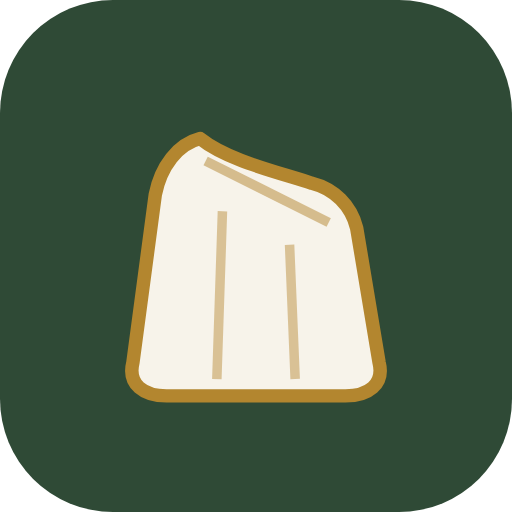
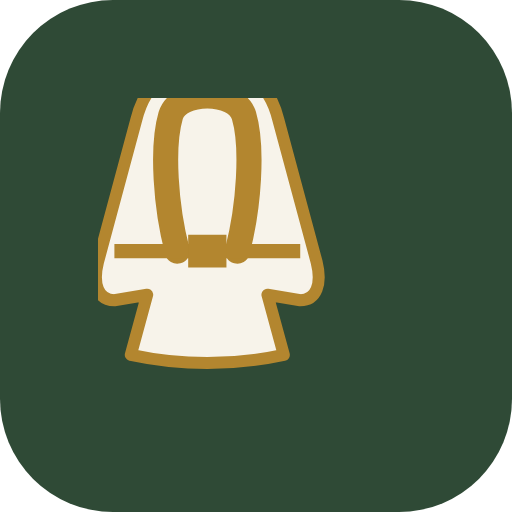
A bathrobe, and a genuinely narrower wordmark
The mark:
- Proportion was the real problem. At 46px a squat body reads as a shirt however good the
  collar is; a robe has to be clearly longer than it is wide (46x47 -> 36x46)
- Long sleeves. A neutral test (no leading question) called the sleeveless version a hospital
  gown and the sleeved one a bathrobe/dressing gown. The sleeves are the difference
- Collar is a horseshoe wrapping the neck, not a V band: two lines meeting in a point is a
  shirt lapel. Rejected 'crossing + hanging belt end' - best description, illegible at 30px
- viewBox fits the garment, so a tall robe no longer floats in a square frame

The wordmark:
- Cormorant 700 as the wordmark face - the display cut of the same Garamond lineage. It
  tolerates far more condensation than the text cut: EB Garamond goes cheap past ~0.76,
  Cormorant holds at 0.72. 48px/0.80 -> 56px/0.72, same width, 8px taller
- Inlined subset regenerated from Cormorant (1.2KB, still four glyphs, still no CDN)

Suite still 52/52.

Changed region(s): [[0.1875, 0.1875, 0.7812, 0.8125]]

diff --git a/index.html b/index.html
@@ -19,14 +19,15 @@
 <link rel="preconnect" href="https://fonts.gstatic.com" crossorigin>
 <link href="https://fonts.googleapis.com/css2?family=EB+Garamond:ital,wght@0,400;0,500;0,600;0,700;1,400;1,500&family=Inter:wght@400;500;600;700&display=swap" rel="stylesheet">
 <style>
-  /* The wordmark's own font: EB Garamond 600, subset to the four glyphs the name needs
+  /* The wordmark's own font: Cormorant 700 — the display cut of the same Garamond
+     lineage, which tolerates far more condensation than the text cut. Subset to the four glyphs
      and inlined (~1.7KB base64). The brand must not depend on a CDN — blocked, offline or
      slow, "Toga" would otherwise fall back to Georgia. Four glyphs, because the name is
      four letters. The rest of the page still loads EB Garamond normally. */
   @font-face {
     font-family: "Toga Mark";
     font-style: normal; font-weight: 700; font-display: swap;
[2 lines of base64/hex data omitted]
   }
   :root {
     --paper: #f7f3ea;
@@ -85,17 +86,17 @@
      kind read as initials, and TOGA is an anagram of GOAT, so it looks like a puzzle. A
      capital T and a lowercase rest reads unmistakably as the word. The double hairline above
      is the bookplate device. */
-  .logo { display: flex; align-items: center; gap: 15px; min-width: 0; }
-  .logo .mark { width: 46px; height: 46px; flex-shrink: 0; }
+  .logo { display: flex; align-items: center; gap: 13px; min-width: 0; }
+  .logo .mark { width: 36px; height: 46px; flex-shrink: 0; }
   /* Narrow and tall. Measured: no classic serif is meaningfully narrower than another — the
      whole field sits within 2% of the same width/height ratio — so the proportions come from
      condensing the letterforms, which buys 14%. 700 rather than 600 because condensing also
      thins the vertical stems, and the heavier weight puts the optical colour back. */
   .wordmark {
-    font-family: "Toga Mark", "EB Garamond", Georgia, serif;
-    font-size: 48px; font-weight: 700; letter-spacing: 0.1px; line-height: 1;
+    font-family: "Toga Mark", Cormorant, "EB Garamond", Georgia, serif;
+    font-size: 56px; font-weight: 700; letter-spacing: 0.1px; line-height: 1;
     color: var(--green); display: inline-block; margin: 0;
-    transform: scaleX(0.80); transform-origin: left center;
+    transform: scaleX(0.72); transform-origin: left center;
   }
   /* inline-block so the rule measures the NAME, not the type block — otherwise it stretches
      to the tagline's width and reads as a header divider instead of a caption. */
@@ -108,8 +109,8 @@
   .tagline-hdr { font-size: 11.5px; color: var(--muted); margin-top: 6px; letter-spacing: 0.2px; }
   .tagline-hdr .sep { color: var(--gold); margin: 0 4px; }
   @media (max-width: 520px) {
-    .wordmark { font-size: 39px; letter-spacing: 0.1px; }
-    .logo .mark { width: 42px; height: 42px; }
+    .wordmark { font-size: 44px; letter-spacing: 0.1px; }
+    .logo .mark { width: 33px; height: 42px; }
     .logo { gap: 12px; }
     .wordmark::before { height: 3px; margin-bottom: 6px; border-top-width: 1.5px; }
     .tagline-hdr .more { display: none; } /* drop the long half on narrow screens */
@@ -154,8 +155,8 @@
   .loc-msg { font-size: 12px; color: var(--gold); min-height: 16px; margin-top: 8px; }
   .loc-current .muted { color: var(--muted); font-weight: 400; }
   .welcome-card { text-align: center; padding-top: 22px; }
-  .welcome-card .mark-lg { width: 72px; height: 72px; margin-bottom: 10px; filter: drop-shadow(0 4px 12px rgba(34,48,31,0.25)); }
-  .welcome-card .wordmark { font-size: 40px; display: inline-block; margin: 0; transform-origin: center center; }
+  .welcome-card .mark-lg { width: 57px; height: 72px; margin-bottom: 10px; filter: drop-shadow(0 4px 12px rgba(34,48,31,0.25)); }
+  .welcome-card .wordmark { font-size: 46px; display: inline-block; margin: 0; transform-origin: center center; }
   .welcome-lead { font-family: "EB Garamond", Georgia, serif; font-style: italic; font-size: 15px; color: var(--ink); margin: 6px 0 12px; }
   .welcome-joined:empty { display: none; }
   .welcome-joined { color: var(--green); font-weight: 600; }
@@ -373,9 +374,9 @@
   .mcell.themed { border-style: double; border-width: 3px; padding: 1px; }
 
   footer { text-align: center; color: var(--muted); font-size: 11px; margin-top: 18px; padding: 0 20px; }
-  footer .brand { font-family: "Toga Mark", "EB Garamond", Georgia, serif; font-size: 22px; font-weight: 700; letter-spacing: 0.1px; color: var(--green); margin: 6px 0 2px; transform: scaleX(0.80); transform-origin: center center; }
+  footer .brand { font-family: "Toga Mark", "EB Garamond", Georgia, serif; font-size: 24px; font-weight: 700; letter-spacing: 0.1px; color: var(--green); margin: 6px 0 2px; transform: scaleX(0.72); transform-origin: center center; }
   footer .fine { font-size: 10.5px; letter-spacing: 1px; }
-  footer .mark-sm { width: 30px; height: 30px; opacity: 0.9; }
+  footer .mark-sm { width: 24px; height: 30px; opacity: 0.9; }
 </style>
 </head>
 <body>
@@ -385,15 +386,17 @@
      and rasterized for the app icon. -->
 <svg width="0" height="0" style="position:absolute" aria-hidden="true">
   <defs>
-    <symbol id="toga-mark" viewBox="0 0 64 64">
-      <!-- A toga in ONE colour, and that colour is today's: --day fills it, --day-ink keylines
-           it so it can never vanish on a pale day (a white toga on cream is an outline drawing,
-           not an invisible one). The diagonal neckline is what makes it a toga and not a tunic
-           — cloth thrown over one shoulder. -->
-      <path d="M22 11 C18 12 15 16 14 21 L10 51 C9 55 12 57 16 57 L48 57 C52 57 55 55 54 51 L50 27 C49 23 46 20 42 19 C36 17 27 15 22 11 Z"
-            fill="var(--day)" stroke="var(--day-deep)" stroke-width="2.4" stroke-linejoin="round"/>
-      <path d="M23 15 L45 26" stroke="var(--day-deep)" stroke-width="1.7" opacity="0.5" fill="none"/>
-      <path d="M26 24 L25 54 M38 30 L39 54" stroke="var(--day-deep)" stroke-width="1.7" opacity="0.45" fill="none"/>
+    <symbol id="toga-mark" viewBox="9 6 46 58">
+      <!-- A bathrobe in ONE colour — the day's. Proportion is most of the work: a robe is
+           clearly longer than it is wide, and at 46px a squat body reads as a shirt however
+           good the collar is. Long sleeves, a rolled collar wrapping the neck, a belt with its knot —
+           the sleeves are what stop it reading as a hospital gown instead. -->
+      <path d="M25 8 C22 9 20 12 19 16 L12 42 C11 46 12 49 15 49 L21 48 L18 59 Q32 62 46 59 L43 48 L49 49 C52 49 53 46 52 42 L45 16 C44 12 42 9 39 8 C38 13 26 13 25 8 Z"
+            fill="var(--day)" stroke="var(--day-deep)" stroke-width="2.2" stroke-linejoin="round"/>
+      <path d="M26.5 40 C24.4 32 23.6 21 25.3 15.2 C26.8 10.4 37.2 10.4 38.7 15.2 C40.4 21 39.6 32 37.5 40"
+            stroke="var(--day-deep)" stroke-width="4.6" fill="none" stroke-linecap="round"/>
+      <path d="M15 40 L49 40" stroke="var(--day-deep)" stroke-width="2.6" fill="none"/>
+      <path d="M28.5 37 L35.5 37 L35.5 43 L28.5 43 Z" fill="var(--day-deep)"/>
     </symbol>
   </defs>
 </svg>

diff --git a/test.html b/test.html
@@ -232,7 +232,7 @@ function run() {
     ok(wm, "no wordmark in the page");
     const fam = app.getComputedStyle(wm).fontFamily;
     ok(/Toga Mark/.test(fam), "wordmark is not using the inlined face: " + fam);
-    ok(app.document.fonts.check('700 46px "Toga Mark"'), "the inlined face did not load");
+    ok(app.document.fonts.check('700 56px "Toga Mark"'), "the inlined face did not load");
   });
   test("the wordmark is title case — not caps, not small caps", () => {
     // caps of any kind read as initials, and TOGA is an anagram of GOAT
@@ -246,7 +246,7 @@ function run() {
     // condensing the letterforms. If this drops back to 1, the mark has lost its shape.
     const wm = doc.querySelector(".wordmark");
     const m = new DOMMatrixReadOnly(app.getComputedStyle(wm).transform);
-    ok(m.a < 0.9 && m.a > 0.6, "wordmark condensation is " + m.a.toFixed(2) + ", expected ~0.80");
+    ok(m.a < 0.85 && m.a > 0.6, "wordmark condensation is " + m.a.toFixed(2) + ", expected ~0.72");
     ok(Math.abs(m.d - 1) < 0.01, "the wordmark is being squashed vertically too");
   });
   test("the wordmark font is embedded, not fetched", () => {
@@ -260,6 +260,14 @@ function run() {
     eq(rule.display, "block", "the rule should be a block");
     // compare layout widths: the rect is post-transform, the two scale together
     near(parseFloat(rule.width), wm.offsetWidth, 1.5, "rule width vs wordmark layout width");
+  });
+  test("the mark is a bathrobe: a rolled collar and a belt", () => {
+    // the shawl collar is what makes it a bathrobe rather than a generic tunic, so hold onto it
+    const svg = doc.getElementById("toga-mark").innerHTML;
+    ok(/stroke-linecap="round"/.test(svg), "the rolled shawl collar is gone");
+    const paths = svg.match(/<path/g) || [];
+    ok(paths.length >= 4, "expected a body, collar, belt and knot; found " + paths.length + " path(s)");
+    ok(!/<circle|<rect|<ellipse/.test(svg), "the mark has grown a disc or box again");
   });
   test("the mark appears in the header, footer and welcome card", () => {
     for (const sel of ["header .mark", "footer .mark-sm", ".welcome-card .mark-lg"])

diff --git a/sw.js b/sw.js
@@ -1,7 +1,7 @@
 // Toga service worker — the page is pure date-math, so it works fully offline.
 // Strategy: precache the shell; network-first for same-origin (so updates land),
 // falling back to cache when offline. Weather API calls are never cached.
-const VERSION = "toga-v16";
+const VERSION = "toga-v17";
 const SHELL = ["./", "./index.html", "./regions.js", "./manifest.webmanifest", "./icon-192.png", "./icon-512.png"];
 
 self.addEventListener("install", e => {
